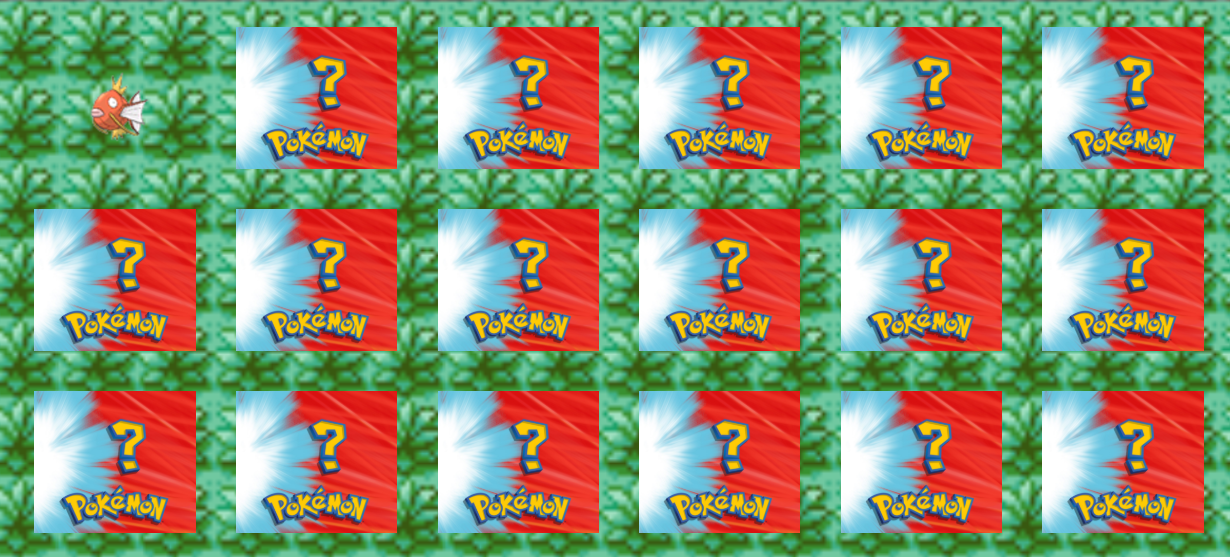
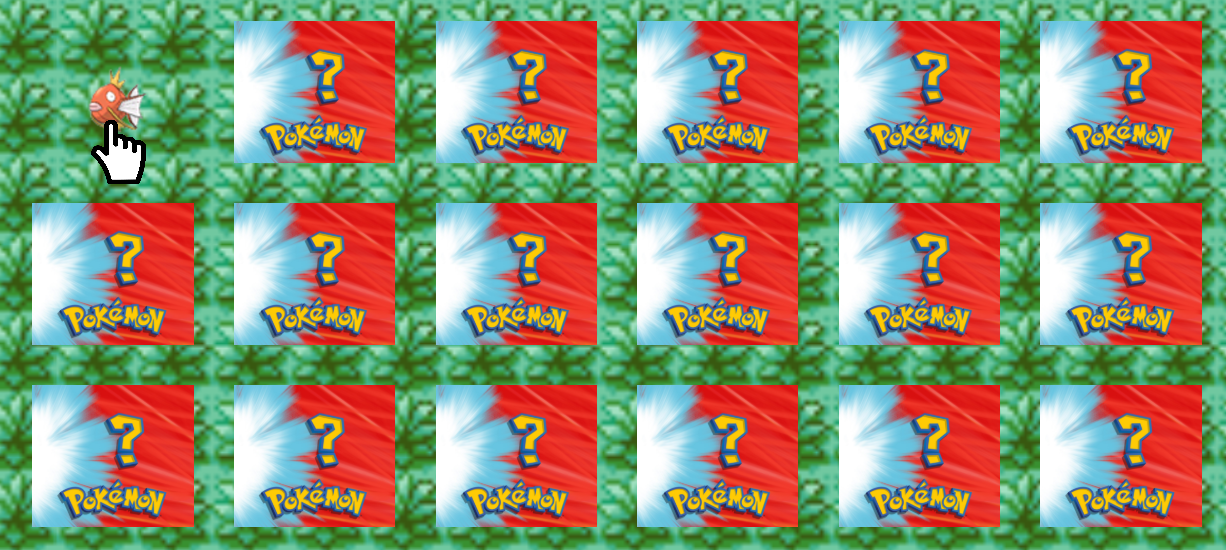
finished tutorial with new slides; fixed bug between tutorial and collection transition; resized broken screen so text doesn't overlap with gif; redid localstorage check for new and return players; menu button is now tutorial; cursor pointer added to cards and other clickable elements; reset journey

diff --git a/style.css b/style.css
@@ -1,3 +1,10 @@
+html {
+    background-image: url(pictures/broken-background.jpg);
+    background-size: cover;
+    background-position: center;
+    width: 100%;
+}
+
 body {
     font-size: 0px;
     margin: 0px;
@@ -101,17 +108,17 @@ sub {
 }
 
 .menu {
+    width: 55px;
+    height: 40px;
+    border-radius: 20px;
     position: absolute;
     bottom: 1.5rem;
     right: 8rem;
-    height: 50px;
-    width: 80px;
-    border-radius: 25px;
     border: 3px ridge rgba(26, 26, 134, 0.7);
     background-color: rgba(255, 183, 0, 0.7);
     font-family: 'Orbitron', sans-serif, cursive;
-    font-weight: bold;
-    font-size: 1rem;
+    font-weight: bolder;
+    font-size: 1.3rem;
     color: rgba(26, 26, 134, 0.8);
     transform: translateX(50%);
     z-index: 10;
@@ -141,12 +148,12 @@ sub {
     display: inline-block;
     height: 24%;
     width: 12%;
-    min-height: 5.5rem;
-    min-width: 5.5rem;
-    max-height: 10rem;
-    max-width: 10rem;
     margin: 1.5%;
     position: relative;
+}
+
+.back:hover {
+    cursor: pointer;
 }
 
 img {
@@ -157,6 +164,7 @@ img {
 
 .front {
     position: absolute;
+    height: 100%;
 }
 
 .back {
@@ -216,7 +224,7 @@ img {
 }
 
 .menu:hover {
-    font-size: 1.25rem;
+    font-size: 1.7rem;
     font-weight: bolder;
 }
 
@@ -225,12 +233,15 @@ img {
 }
 
 .close:hover,
-.close:focus,
+.close:focus {
+    color: rgba(26, 26, 134, 0.7);
+    text-decoration: none;
+    cursor: pointer;
+}
+
 .info:hover,
-.info:focus,
-.reborn:hover,
-.reborn.focus {
-    color: rgb(56, 56, 180);
+.info:focus {
+    color: rgba(255, 183, 0, 0.7);
     text-decoration: none;
     cursor: pointer;
 }
@@ -265,18 +276,23 @@ img {
 }
 
 .mute:hover,
-.mute:focus,
-.about:hover,
-.about.focus {
-    color: rgba(255, 183, 0, 0.7);
+.mute:focus {
     cursor: pointer;
+    font-size: 1.8rem;
 }
 
 .mute {
+    text-align: center;
+    padding-top: 2px;
+    width: 55px;
+    height: 40px;
+    border-radius: 20px;
+    border: 3px ridge rgba(26, 26, 134, 0.7);
+    background-color: rgba(255, 183, 0, 0.7);
     color: rgba(26, 26, 134, 0.7);
     right: 2rem;
     bottom: 1.5rem;
-    font-size: 2rem;
+    font-size: 1.5rem;
     font-weight: bold;
     position: absolute;
     z-index: 10;
@@ -311,6 +327,69 @@ img {
     overflow-x: hidden;
 }
 
+#restart {
+    z-index: 20;
+    background-color: rgba(0, 0, 0, 0.5);
+}
+
+#restart>.modal-content {
+    font-size: 2rem;
+    background-color: rgb(226, 226, 226);
+    width: 50%;
+    height: 50%;
+    text-align: center;
+    position: relative;
+    left: 50%;
+    top: 50%;
+    transform: translate(-50%, -50%);
+    padding: 2.5%;
+    border-radius: 20px;
+    border: 8px ridge rgba(26, 26, 134, 0.7);
+}
+
+#restart button {
+    margin: 2rem 3rem 4rem;
+    font-weight: bold;
+    color: rgba(27, 27, 27, 0.808);
+}
+
+#restart button:hover {
+    cursor: pointer;
+}
+
+.yesRestart {
+    background-color: rgba(34, 151, 34, 0.747);
+    font-size: 2.5rem;
+    border-radius: 10px;
+}
+
+.noRestart {
+    background-color: rgba(250, 44, 44, 0.747);
+    font-size: 2.5rem;
+    border-radius: 10px;
+}
+
+.yesRestart:hover,
+.noRestart:hover,
+.yesRestart:focus {
+    font-size: 3rem;
+    outline: none;
+}
+
+.goodbye {
+    font-style: italic;
+}
+
+@media only screen and (max-height: 880px){
+    #restart>.modal-content {
+        font-size: 1.5rem;
+    }
+
+    #restart button {
+        margin: 1.5rem 3rem 2rem;
+    }    
+}
+
 .tired {
     margin: 0;
     padding: 5%;
@@ -330,6 +409,7 @@ img {
     z-index: 15;
 }
 
+
 .sleeping {
     height: 100%;
 }
@@ -343,27 +423,40 @@ img {
 }
 
 .broken-screen {
-    background-color: lightgrey;
-    background-image: url(pictures/screen_break.gif);
-    background-repeat: no-repeat;
-    background-size: 70%;
-    background-position: center 80%;
     height: 100vh;
     width: 100vw;
     z-index: 20;
     display: none;
 }
 
+.broken-img {
+    height: 60vmin;
+    background-image: url(pictures/screen_break.gif);
+    background-repeat: no-repeat;
+    background-size: 70%;
+    background-position: center 80%;
+}
+
 .broken-screen>.broken-message {
     font-size: 2rem;
     width: 70%;
-    position: absolute;
-    transform: translateX(50%);
-    right: 50%;
+    position: relative;
+    transform: translateX(-50%);
+    left: 50%;
     text-align: center;
+    text-shadow: -1px 0 white, 0 1px white, 1px 0 white, 0 -1px white;
+    font-weight: bold;
 }
 
-* {box-sizing:border-box}
+@media only screen and (max-width: 350px), screen and (max-height: 520px) {
+    .broken-screen>.broken-message {
+        font-size: 1.2rem;
+    }
+}
+
+* {
+    box-sizing:border-box
+}
 
 .slideshow-container {
   width: 90%;
@@ -455,14 +548,15 @@ img {
   min-height: 1rem;
   min-width: 1rem;
   margin: 0 2px;
-  background-color: #bbb;
+  background-color: rgba(255, 183, 0, 0.7);
+  border: 2px solid rgba(26, 26, 134, 0.7);
   border-radius: 50%;
   display: inline-block;
   transition: background-color 0.6s ease;
 }
 
 .active, .dot:hover {
-  background-color: #717171;
+  background-color: rgba(26, 26, 134, 0.85);
 }
 
 .fade {

diff --git a/main.js b/main.js
@@ -88,6 +88,9 @@ function initializeApp(){
     $('.menu').on('click', playGame);
     $('.close').on('click', modalClose);
     $('.reborn').on('click', totalReset);
+    $('.yesRestart').on('click', yesRestart);
+    $('.noRestart').on('click', noRestart);
+    $(window).on('click', modalShadow);
 
     $(window).resize(()=>{
         checkWindowSize();
@@ -178,12 +181,31 @@ function jigglyFade(){
 }
 
 function totalReset(){
-    alert('Reset all pokemon caught and days traveled. Please refresh page.');
+    $('#restart').show();
+}
+
+function yesRestart(){
+    var goodbye = $('<p>').addClass('goodbye').text('Good luck on your next journey!');
+    $('#restart>.modal-content').append(goodbye);
     localStorage.clear();
+    setTimeout(function(){
+        location.reload();
+    }, 1500);
+}
+
+function noRestart(){
+    $('#restart').hide();
+}
+
+function modalShadow(e){
+    var modal = $('#restart');
+    if(e.target === modal[0]){
+        modal.hide();
+    }
 }
 
 function searchLocalStorage(){
-    if(!localStorage.length || localStorage.caught <= 1){
+    if(!localStorage.games_played || !localStorage.collection || !localStorage.caught){
         localStorage.caught = 1;
         caught = JSON.parse(localStorage.caught);
         localStorage.games_played = 0;
@@ -359,11 +381,15 @@ function showMenu(){
 function playGame(){
     var playButton = $('.menu');
     if(playButton.text() === 'Play'){
-        playButton.text('Menu');
+        playButton.text('?');
         playButton.toggleClass('play')
     }else{
         playButton.text('Play');
         playButton.toggleClass('play')
+    }
+    var pokedex = $('#pokedex');
+    if(pokedex.css('display') === 'block'){
+        pokedex.hide();
     }
     $('#instructions').toggle();
 }

diff --git a/index.html b/index.html
@@ -26,6 +26,7 @@
                 Your screen size is too small to play the app!
             </p>
         </div>
+        <div class="broken-img"></div>
     </div>
     <div class="content">
             <div id="instructions" class="modal">
@@ -58,7 +59,7 @@
                                 </div>
                                 <div class="slides fade">
                                     <div class="imageContainer">
-                                        <img src="pictures/slide4.1.PNG">
+                                        <img src="pictures/slide4.PNG">
                                     </div>
                                     <div class="numbertext">4 / 8</div>
                                     <div class="text">After catching all the pokemon, the field will reset with new pokemon or click on the jigglypuff icon to do it manually.</div>
@@ -286,6 +287,13 @@
             <span class="close">x</span>
             <button class="reborn">Reset</button>
             <div id="sortable" class="modal-content stash"></div>
+        </div>
+        <div id="restart" class="modal">
+            <div class="modal-content">
+                <p>Do you want to reset all pokemon caught and days traveled?</p>
+                <button class="yesRestart">Yes</button>
+                <button class="noRestart">No</button>
+            </div>
         </div>
         <div id="sleep" class="modal">
             <div class="modal-content tired">
